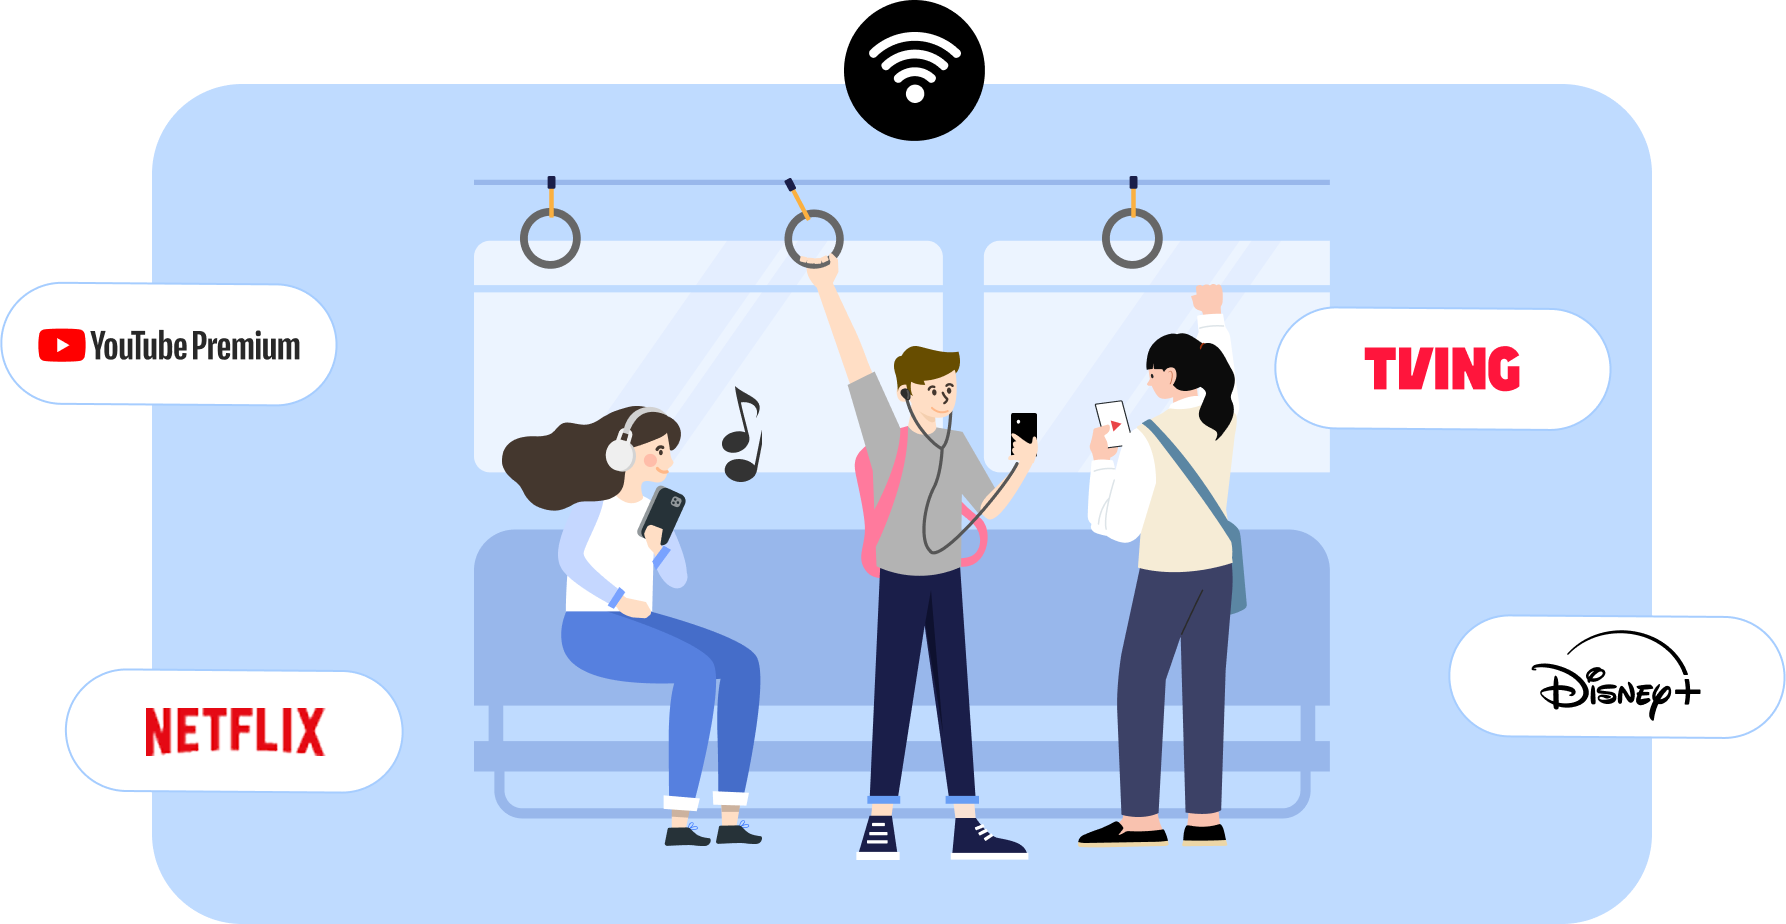
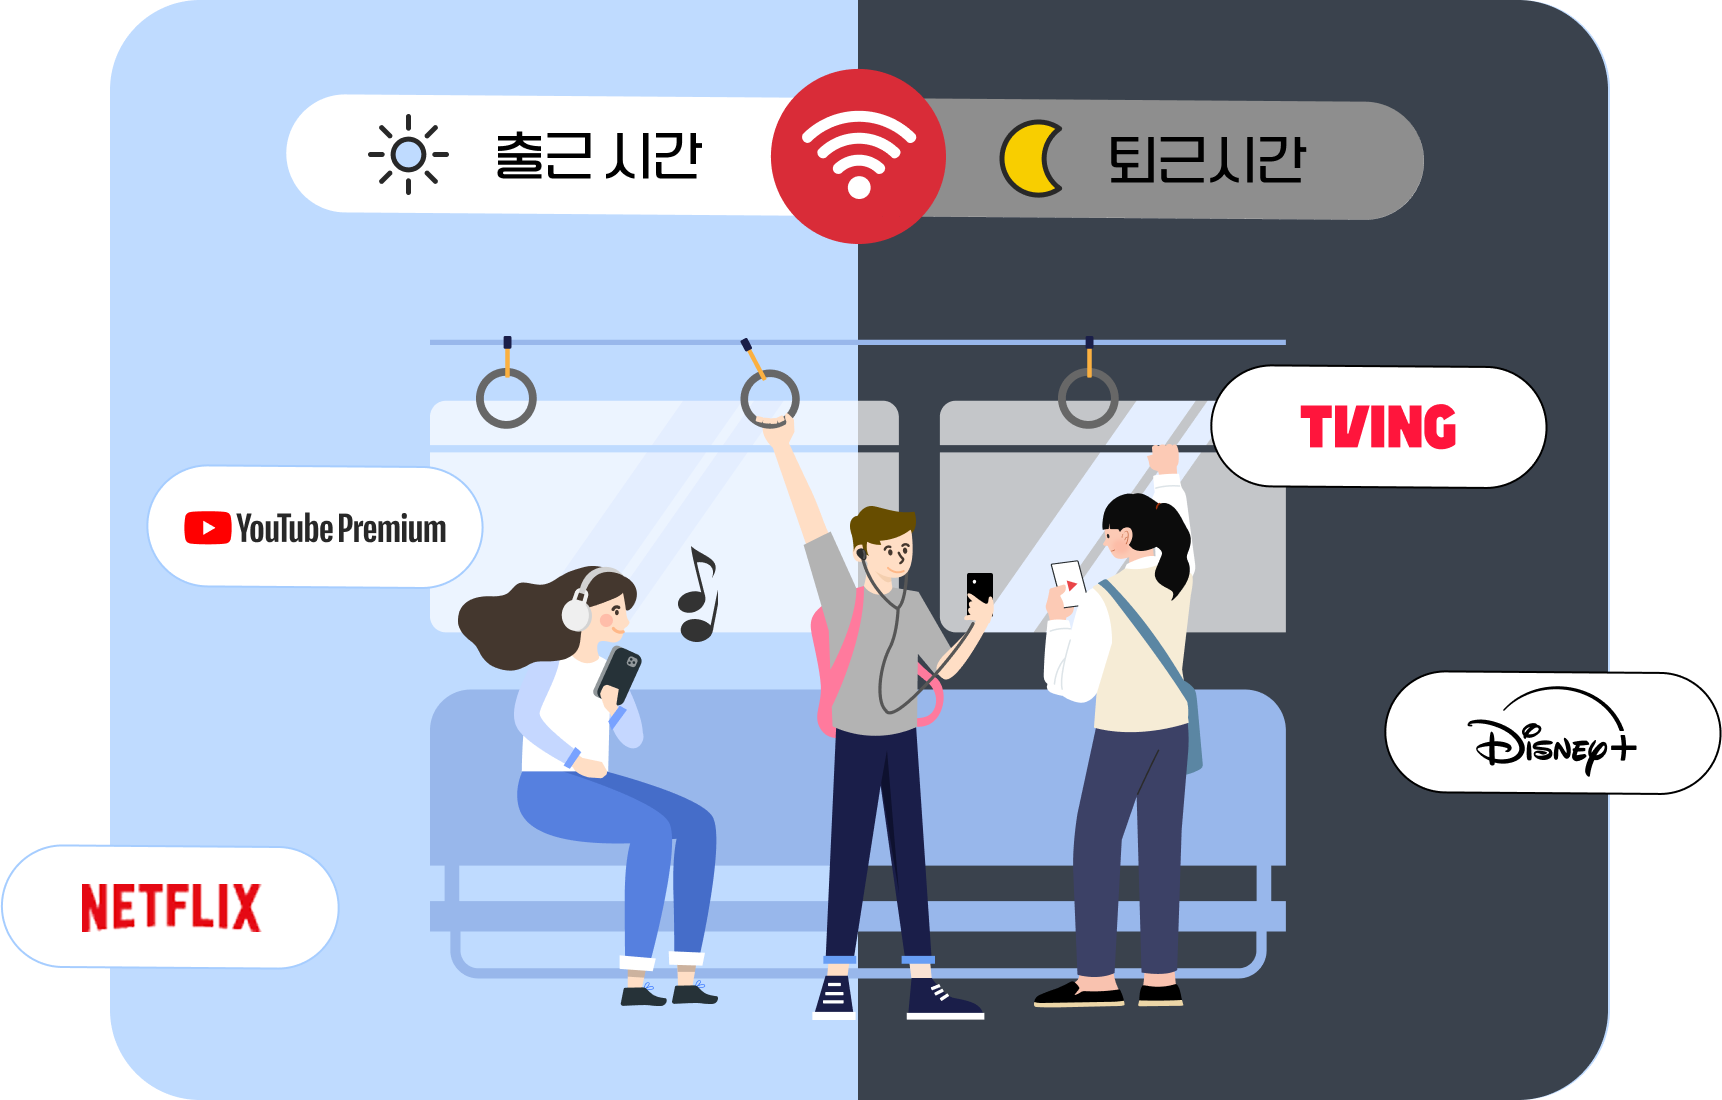
[상품코드-1650] 출퇴근프리 ->  내마음대로데이터프리 변경 (모바일 추가 수정필요)

diff --git a/current/product/1650/web/1650_w_상품특장점.html b/current/product/1650/web/1650_w_상품특장점.html
@@ -1,23 +1,12 @@
 <div class="rn-forte-wrap">
   <div class="rn-forte-section">
-    <h2 class="rn-forte-title">
-      출퇴근 시간,<br>
-      <em class="bold">데이터 걱정 없이 <span class="red">무제한 이용!</span></em>
+    <h2 class="rn-forte-title ta-center">
+      매일 내가 선택한 <em class="bold red">2시간</em>,<br>
+      <strong class="bold">데이터 완전 무제한</strong>
     </h2>
-  </div>
-  <div class="rn-forte-section">
-    <h3 class="sr-only">출퇴근 데이터프리 서비스 특장점</h3>
-    <p class="rn-forte-title-sub">
-      매일 내가 선택한 
-      <strong class="bold">
-        <span class="red">2시간,</span>
-        <br>
-        <span class="underline underline-mint">데이터 완전 무제한</span>
-      </strong>
-    </p>
   </div>
 </div>
 
 <style>
-  .rn-forte-wrap .rn-forte-section:has(.rn-forte-title-sub) {padding-top: 550px !important; background: url('/static/prodetail/1650/web/itemForte/images/img_fte_1650_w_visual.png') no-repeat center 30px / auto 462px;}
+  .rn-forte-wrap .rn-forte-section:has(.rn-forte-title) {padding-bottom: 612px !important; background: url('/static/prodetail/1650/web/itemForte/images/img_fte_1650_w_visual.png') no-repeat center bottom / auto 550px;}
 </style>

diff --git a/current/product/1650/mobile/scalable_1650_01_01.html b/current/product/1650/mobile/scalable_1650_01_01.html
@@ -21,7 +21,7 @@
       <div class="pduct-scalable-x-w">
         <table class="pduct-tbl-plan">
           <caption class="invisible">
-            출퇴근 데이터프리 상품에 대한 상품명, 월 이용요금, 출시 프로모션가, 비고 내용을 정의한 표
+            내 마음대로 2시간 데이터 프리 상품에 대한 상품명, 월 이용요금, 출시 프로모션가, 비고 내용을 정의한 표
           </caption>
           <colgroup>
             <col style="width: 25%;">
@@ -41,7 +41,7 @@
           </thead>
           <tbody>
             <tr>
-              <th>출퇴근 데이터프리</th>
+              <th>내 마음대로 2시간 데이터 프리</th>
               <td>9,900원</td>
               <td>990원*</td>
               <td>매일 원하는 <br>2시간 무제한</td>

diff --git a/current/product/1650/mobile/1650_m_accord_1_요금안내.html b/current/product/1650/mobile/1650_m_accord_1_요금안내.html
@@ -5,7 +5,7 @@
 <div class="pductscalable-box">
   <table class="pduct-tbl-plan">
     <caption class="invisible">
-      출퇴근 데이터프리 상품에 대한 상품명, 월 이용요금, 출시 프로모션가, 비고 내용을 정의한 표
+      내 마음대로 2시간 데이터 프리 상품에 대한 상품명, 월 이용요금, 출시 프로모션가, 비고 내용을 정의한 표
     </caption>
     <colgroup>
       <col style="width: 25%;">
@@ -25,7 +25,7 @@
     </thead>
     <tbody>
       <tr>
-        <th>출퇴근 데이터프리</th>
+        <th>내 마음대로 2시간 데이터 프리</th>
         <td>9,900원</td>
         <td>990원*</td>
         <td>매일 원하는 <br>2시간 무제한</td>

diff --git a/current/product/1650/web/1650_w_accord_1_요금안내.html b/current/product/1650/web/1650_w_accord_1_요금안내.html
@@ -5,7 +5,7 @@
 
 <table class="pduct-tbl-plan">
 	<caption class="invisible">
-    출퇴근 데이터프리 상품에 대한 상품명, 월 이용요금, 출시 프로모션가, 비고 내용을 정의한 표
+    내 마음대로 2시간 데이터 프리 상품에 대한 상품명, 월 이용요금, 출시 프로모션가, 비고 내용을 정의한 표
   </caption>
 	<colgroup>
 		<col style="width: 25%;">
@@ -25,7 +25,7 @@
 	</thead>
 	<tbody>
 		<tr>
-			<th>출퇴근 데이터프리</th>
+			<th>내 마음대로 2시간 데이터 프리</th>
 			<td>9,900원</td>
       <td>990원*</td>
 			<td>매일 원하는 <br>2시간 무제한</td>
